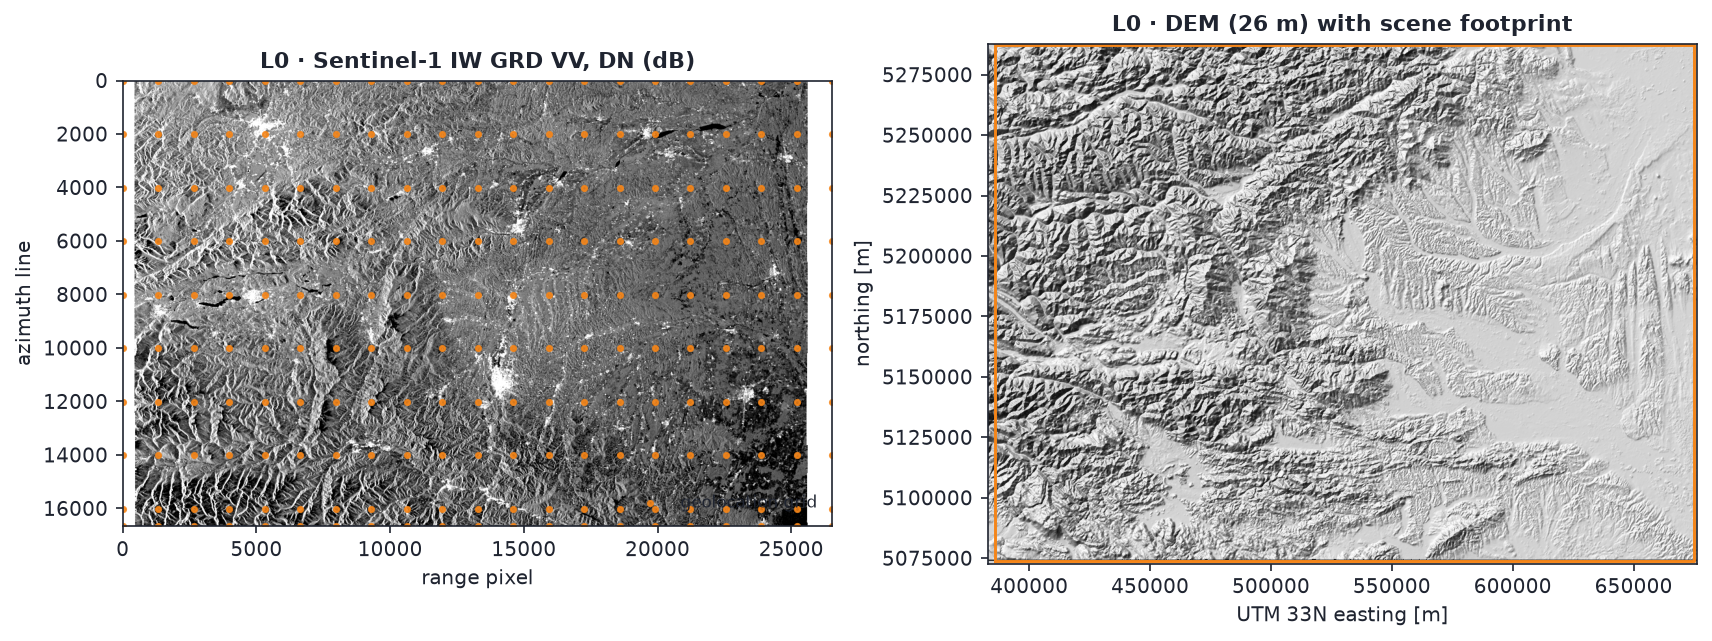
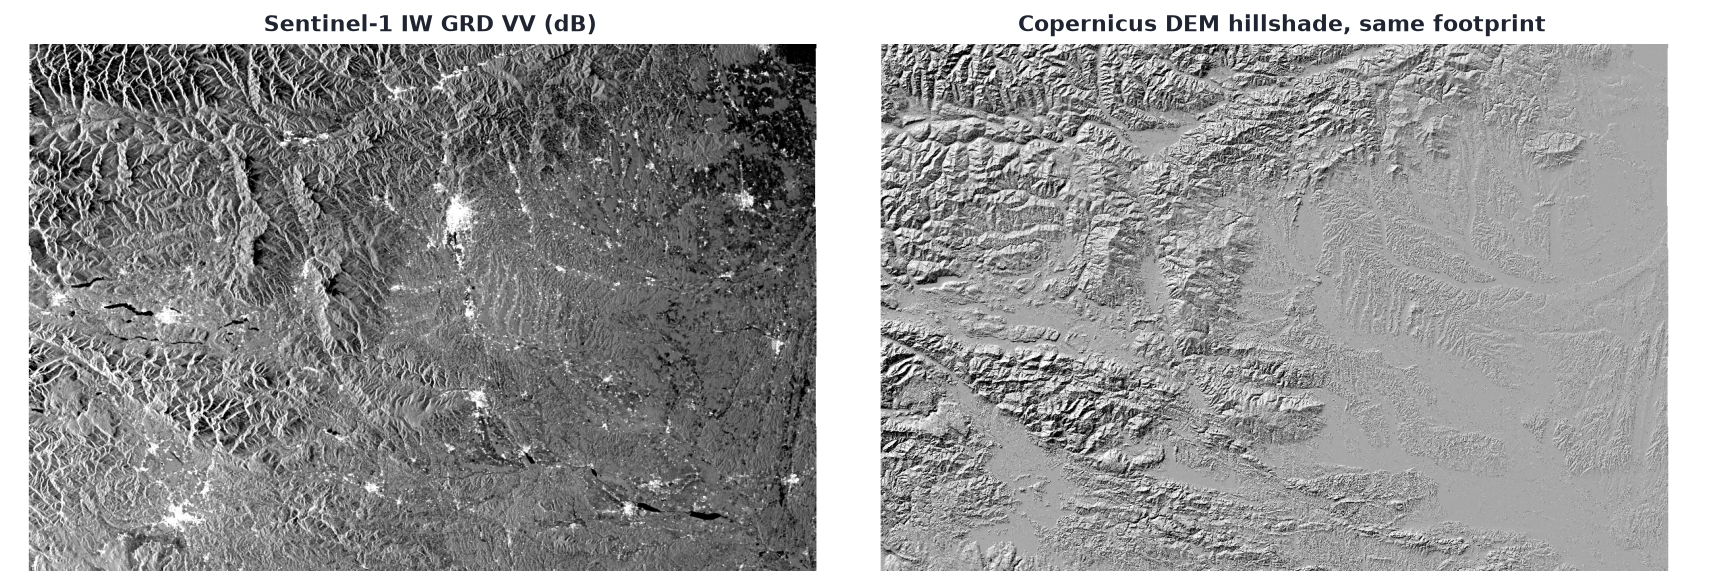
improved fig5

diff --git a/figures/make_figures.py b/figures/make_figures.py
@@ -237,32 +237,43 @@ vmin, vmax = np.nanpercentile(db, [2, 98])
 
 dem_path = os.path.join(os.path.dirname(os.path.dirname(os.path.abspath(__file__))), "dem.tif")
 with rasterio.open(dem_path) as ds:
-    dem = ds.read(1, out_shape=(800, 1092), resampling=Resampling.bilinear).astype(float)
-    bounds = ds.bounds
+    dem = ds.read(1).astype(np.float32)
+    dem[dem == ds.nodata] = np.nan
+    dem_tf, dem_crs = ds.transform, ds.crs
 gy, gx = np.gradient(dem, 26.03)
 slope = np.arctan(np.hypot(gx, gy))
 aspect = np.arctan2(-gx, gy)
 az, alt = np.radians(315), np.radians(45)
 hs = np.sin(alt) * np.cos(slope) + np.cos(alt) * np.sin(slope) * np.cos(az - aspect)
 
-fig, ax = plt.subplots(1, 2, figsize=(11.5, 4.6))
-ax[0].imshow(db, cmap="gray", vmin=vmin, vmax=vmax, extent=[0, nsamp, nlines, 0])
-ax[0].set_facecolor(BG)
-ax[0].scatter(G[:, PIX], G[:, LINE], s=6, color=C2, alpha=0.85, label="geolocation grid")
-ax[0].set_title("L0 · Sentinel-1 IW GRD VV, DN (dB)")
-ax[0].set_xlabel("range pixel"); ax[0].set_ylabel("azimuth line")
-ax[0].legend(loc="lower right", fontsize=8)
-ax[0].grid(False)
+# Put the DEM into the SAR image's own grid, so both panels cover exactly the
+# same ground: the geolocation grid (10 lines x 21 pixels) gives lat/lon per
+# (line, pixel); interpolate it to every display pixel, go to UTM, sample.
+from scipy.interpolate import RegularGridInterpolator
+from scipy.ndimage import map_coordinates
+g_lines, g_pix = np.unique(G[:, LINE]), np.unique(G[:, PIX])
+order = np.lexsort((G[:, PIX], G[:, LINE]))
+lat_g = G[order, LAT].reshape(len(g_lines), len(g_pix))
+lon_g = G[order, LON].reshape(len(g_lines), len(g_pix))
+ll, pp = np.meshgrid((np.arange(h) + 0.5) * nlines / h, (np.arange(w) + 0.5) * nsamp / w, indexing="ij")
+q = np.column_stack([ll.ravel(), pp.ravel()])
+lat_q = RegularGridInterpolator((g_lines, g_pix), lat_g, bounds_error=False, fill_value=None)(q)
+lon_q = RegularGridInterpolator((g_lines, g_pix), lon_g, bounds_error=False, fill_value=None)(q)
+e, n = Transformer.from_crs("EPSG:4326", dem_crs, always_xy=True).transform(lon_q, lat_q)
+col, row = ~dem_tf * (e, n)
+hs_sar = map_coordinates(hs, [row - 0.5, col - 0.5], order=1, cval=np.nan).reshape(h, w)
+hs_sar[np.isnan(db)] = np.nan   # same padding mask as the SAR panel
 
-ax[1].imshow(hs, cmap="gray", extent=[bounds.left, bounds.right, bounds.bottom, bounds.top])
-ax[1].set_title("L0 · DEM (26 m) with scene footprint")
-ax[1].set_xlabel("UTM 33N easting [m]"); ax[1].set_ylabel("northing [m]")
-ax[1].ticklabel_format(useOffset=False, style="plain")
-ax[1].grid(False)
-foot = dict(left=385_642, right=674_883, bottom=5_073_954, top=5_287_134)
-ax[1].plot([foot["left"], foot["right"], foot["right"], foot["left"], foot["left"]],
-           [foot["bottom"], foot["bottom"], foot["top"], foot["top"], foot["bottom"]],
-           color=C2, lw=1.4)
+# Line 0 is the southern edge (ascending pass) and range runs west to east,
+# so flipping the lines gives a roughly north-up view for both panels.
+fig, ax = plt.subplots(1, 2, figsize=(11.5, 3.9))
+ax[0].imshow(db[::-1], cmap="gray", vmin=vmin, vmax=vmax)
+ax[0].set_title("Sentinel-1 IW GRD VV (dB)")
+ax[1].imshow(hs_sar[::-1], cmap="gray", vmin=np.nanpercentile(hs_sar, 2), vmax=np.nanpercentile(hs_sar, 98))
+ax[1].set_title("Copernicus DEM hillshade, same footprint")
+for a in ax:
+    a.set_facecolor(BG)
+    a.set_axis_off()
 fig.tight_layout()
 fig.savefig(os.path.join(OUT, "fig5_scene.png"), bbox_inches="tight")
 plt.close(fig)
